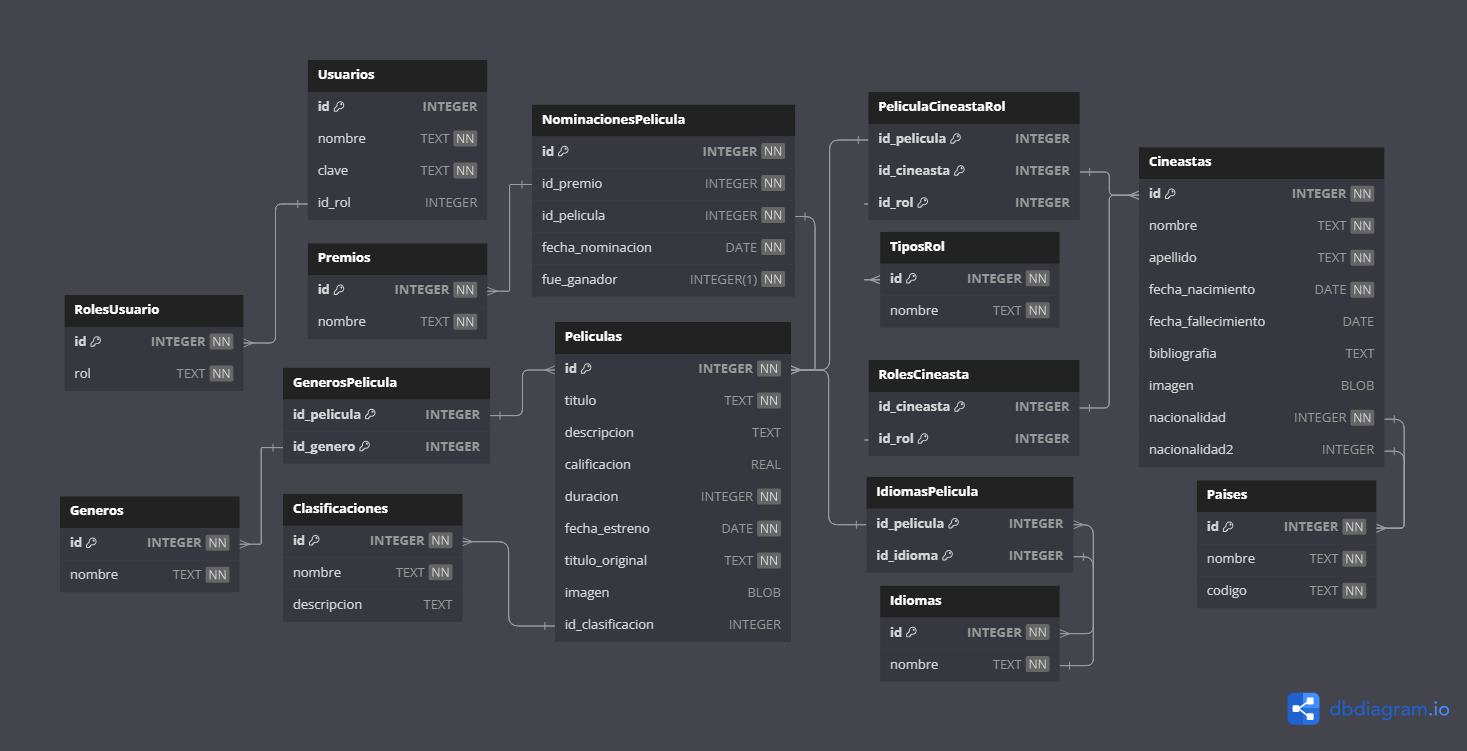
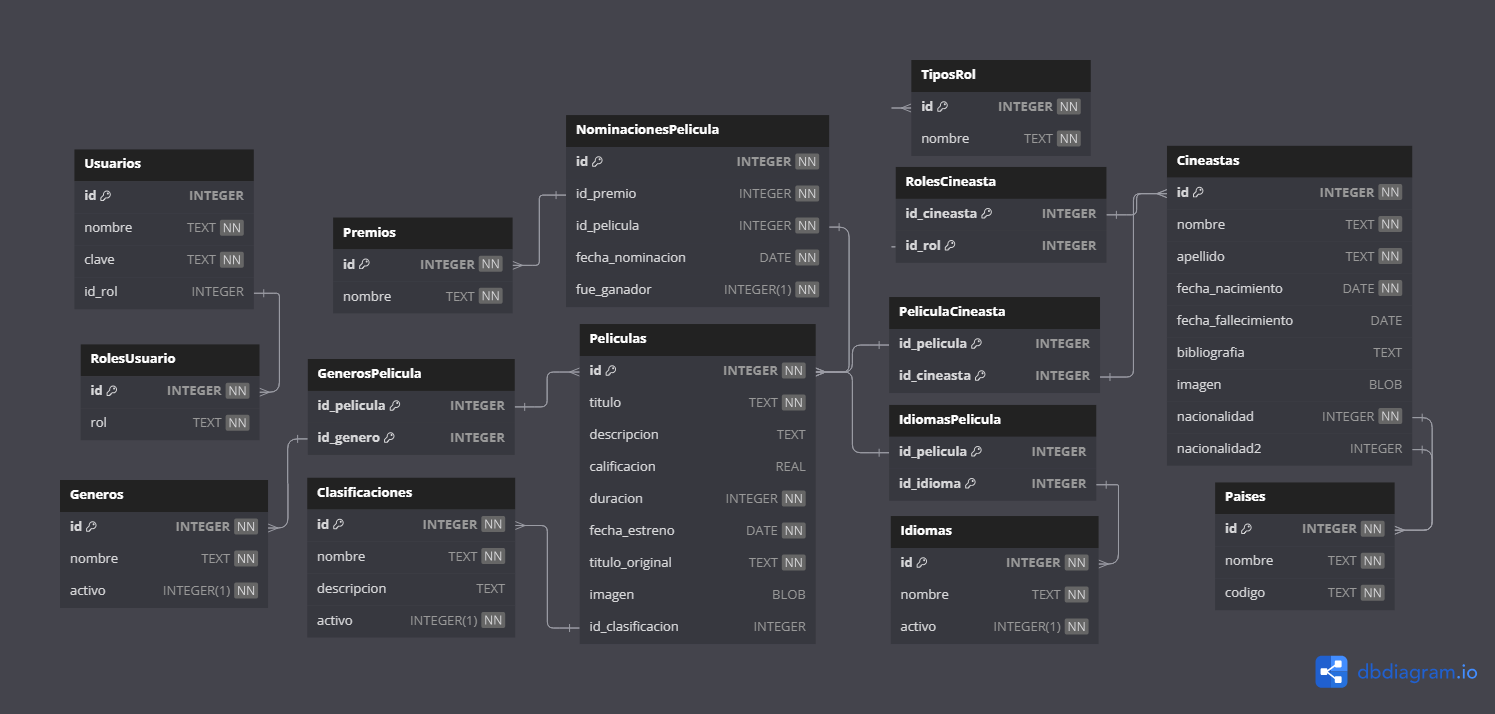
Añadir campos activo ? inactivo a CLASIFICACIONES, GENEROS e IDIOMAS

diff --git a/backend/src/models/clasificaciones.js b/backend/src/models/clasificaciones.js
@@ -16,6 +16,14 @@ const Clasificacion = sequelize.define(
     descripcion: {
       type: DataTypes.TEXT,
     },
+    activo: {
+      type: DataTypes.INTEGER,
+      allowNull: false,
+      validate: {
+        isIn: [[0, 1]],
+      },
+      defaultValue: 0,
+    },
   },
   {
     tableName: "Clasificaciones",

diff --git a/backend/src/models/idiomas.js b/backend/src/models/idiomas.js
@@ -13,6 +13,14 @@ const Idioma = sequelize.define(
       type: DataTypes.STRING,
       allowNull: false,
     },
+    activo: {
+      type: DataTypes.INTEGER,
+      allowNull: false,
+      validate: {
+        isIn: [[0, 1]],
+      },
+      defaultValue: 0,
+    },
   },
   {
     tableName: "Idiomas",

diff --git a/backend/src/models/generos.js b/backend/src/models/generos.js
@@ -13,6 +13,14 @@ const Genero = sequelize.define(
       type: DataTypes.TEXT,
       allowNull: false,
     },
+    activo: {
+      type: DataTypes.INTEGER,
+      allowNull: false,
+      validate: {
+        isIn: [[0, 1]],
+      },
+      defaultValue: 0,
+    },
   },
   {
     tableName: "Generos",
